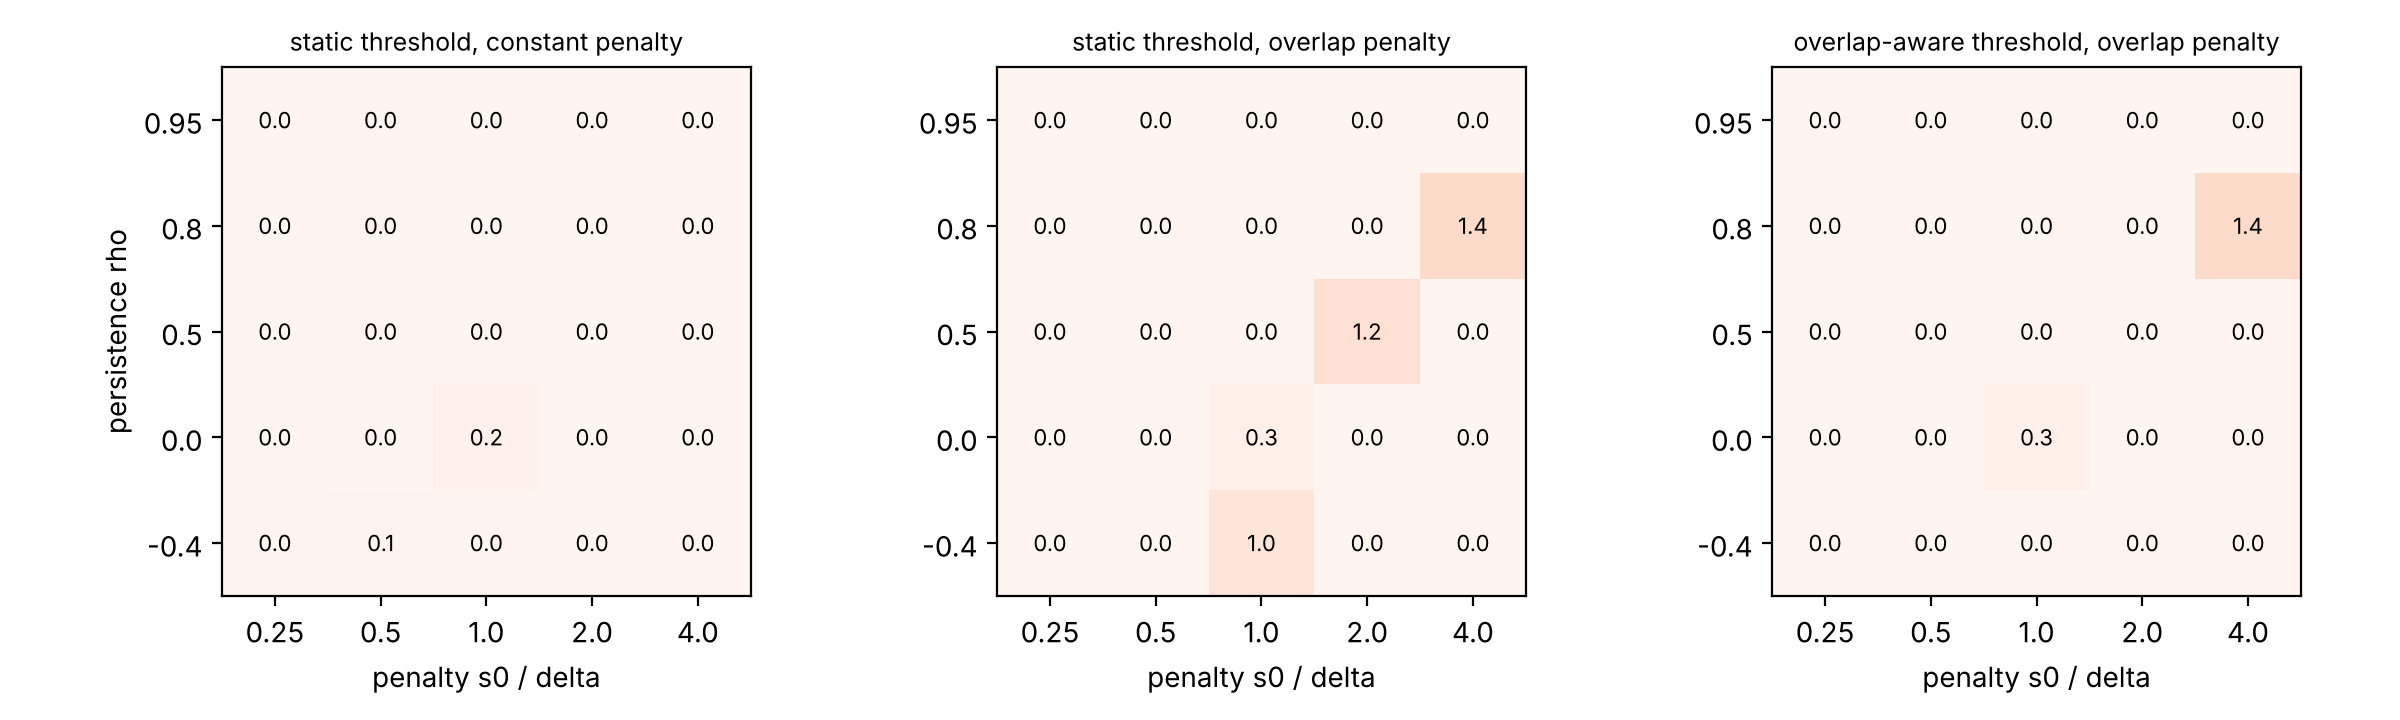
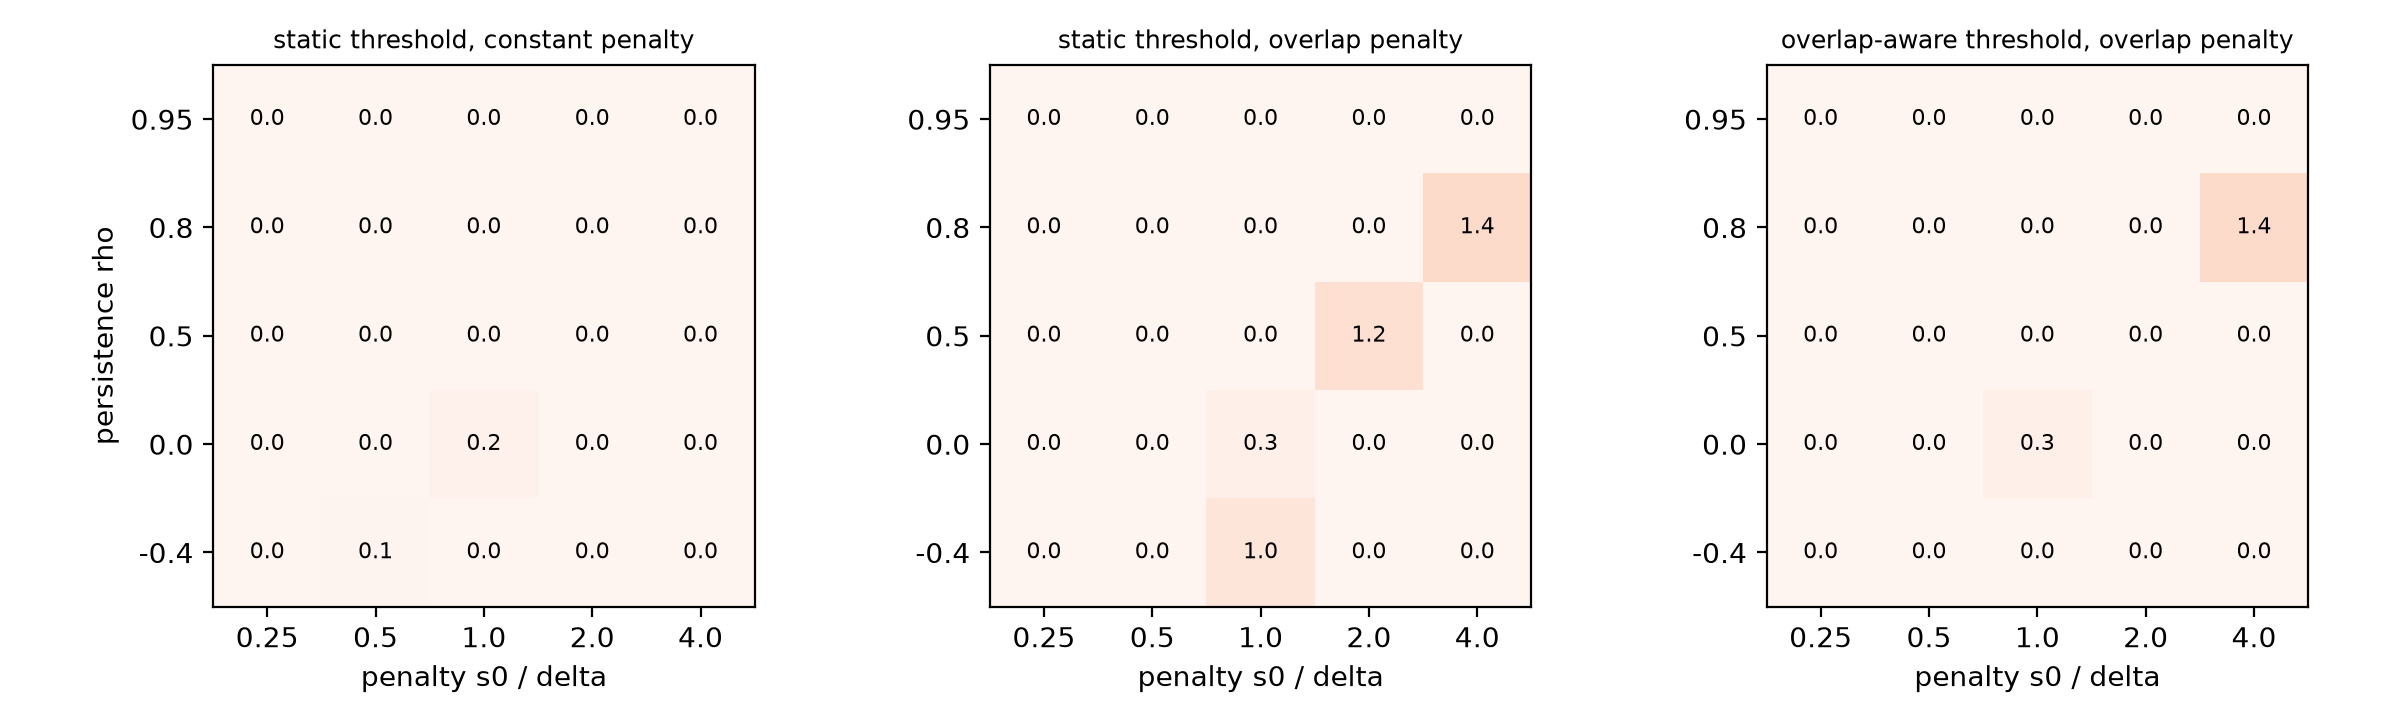
real dataset

diff --git a/rerouting/make_geant_topology.py b/rerouting/make_geant_topology.py
@@ -1,0 +1,29 @@
+"""builds data/geant/topology.csv (src,dst,capacity_kbps,weight) from topology-anonymised.xml.
+the anonymised file has no capacities and no igp weights, so every link gets weight 1 (hop count) and capacity 1.
+the binary link state (congested above the link's own training quantile of utilization) does not depend on a constant capacity."""
+import sys
+import xml.etree.ElementTree as et
+
+
+def local(tag):
+    return tag.split("}")[-1]
+
+
+def main(xml_path, out_path):
+    root = et.parse(xml_path).getroot()
+    edges = set()
+    for link in root.find(".//{*}topology").iter():
+        if local(link.tag) != "link":
+            continue
+        a = [e for e in link if local(e.tag) == "from"][0].get("node")
+        b = [e for e in link if local(e.tag) == "to"][0].get("node")
+        edges.add(tuple(sorted((a, b), key=int)))
+    with open(out_path, "w") as f:
+        f.write("src,dst,capacity_kbps,weight\n")
+        for a, b in sorted(edges, key=lambda e: (int(e[0]), int(e[1]))):
+            f.write("%s,%s,1,1\n" % (a, b))
+    print(len(edges), "undirected links written to", out_path)
+
+
+if __name__ == "__main__":
+    main(sys.argv[1], sys.argv[2])

diff --git a/rerouting/model.py b/rerouting/model.py
@@ -96,6 +96,8 @@ def evaluate(pol, cc, px, s, gamma):
     cpi = (s[ii, jj] + cc[jj, xx]).ravel()
     return np.linalg.solve(np.eye(n) - gamma * pp, cpi).reshape(k, nx)
 
+def _jstar(cc, s):
+    return np.argmin(cc[None] + 1e-9 * s[:, :, None], axis=1)   # (k, nx)
 
 def policy_iteration(cc, px, s, gamma):
     k, nx = cc.shape
@@ -119,18 +121,19 @@ def pol_never(k, nx):
     return np.tile(np.arange(k)[:, None], (1, nx))
 
 
-def pol_greedy(cc):
+def pol_greedy(cc, s):
     k, nx = cc.shape
-    return np.tile(cc.argmin(axis=0), (k, 1))
+    return _jstar(cc, s)
 
 
 def pol_threshold(cc, s, theta, alpha=0.0):
-    """switch to the cheapest path jstar if the gain exceeds theta + alpha * s(i, jstar)."""
     k, nx = cc.shape
-    jstar = cc.argmin(axis=0)
+    ii = np.arange(k)[:, None]
+    jstar = _jstar(cc, s)
     gain = cc - cc.min(axis=0)
-    sw = gain > theta + alpha * s[:, jstar]
-    return np.where(sw, jstar[None, :], np.arange(k)[:, None])
+    switching_penalty = s[ii, jstar]
+    sw = gain > theta + alpha * switching_penalty
+    return np.where(sw, jstar, ii)
 
 
 def cost_of(vv, mu):

diff --git a/rerouting/experiments.py b/rerouting/experiments.py
@@ -31,7 +31,7 @@ def scenario(inst, s0, rho, model, with_oa):
     jopt = md.cost_of(vv, mu)
     res = {"opt": jopt}
     res["ns"] = md.cost_of(md.evaluate(md.pol_never(inst["k"], inst["nx"]), cc, px, s, gamma), mu)
-    res["gr"] = md.cost_of(md.evaluate(md.pol_greedy(cc), cc, px, s, gamma), mu)
+    res["gr"] = md.cost_of(md.evaluate(md.pol_greedy(cc, s), cc, px, s, gamma), mu)
     jt, th, _ = md.best_threshold(cc, px, s, gamma, mu, thetas)
     res["th"], res["theta"] = jt, th
     if with_oa:
@@ -108,7 +108,7 @@ _, _, rho, s0, _ = worst
 res, (px, s, mu, popt, p, q) = scenario(inst_b, s0, rho, "overlap", True)
 cc = inst_b["cc"]
 i0 = int(np.argmax(mu.sum(axis=1)))
-pols = {"opt": popt, "never-switch": md.pol_never(3, inst_b["nx"]), "greedy": md.pol_greedy(cc),
+pols = {"opt": popt, "never-switch": md.pol_never(3, inst_b["nx"]), "greedy": md.pol_greedy(cc,s),
         "threshold": md.pol_threshold(cc, s, res["theta"]),
         "overlap-aware": md.pol_threshold(cc, s, res["theta0"], res["alpha"])}
 with open(os.path.join(out, "showcase.csv"), "w") as f:

diff --git a/rerouting/real_data.py b/rerouting/real_data.py
@@ -155,7 +155,7 @@ def main(tm, topology, src=None, dst=None, k=3, max_links=10, s0=2.0, quantile=0
     thetas, th0s, alphas = np.arange(0, 3.01, 0.25), np.arange(0, 2.01, 0.5), [0.0, 0.5, 1.0, 1.5, 2.0]
     th = md.best_threshold(cc, px, s, gamma, mu, thetas)[1]
     th0, al = md.best_threshold(cc, px, s, gamma, mu, th0s, alphas)[1:]
-    pols = {"optimal": popt, "never-switch": md.pol_never(inst["k"], inst["nx"]), "greedy": md.pol_greedy(cc),
+    pols = {"optimal": popt, "never-switch": md.pol_never(inst["k"], inst["nx"]), "greedy": md.pol_greedy(cc,s),
             "threshold": md.pol_threshold(cc, s, th), "overlap-aware": md.pol_threshold(cc, s, th0, al)}
     weights = 2 ** np.arange(m)
 

diff --git a/rerouting/stress.py b/rerouting/stress.py
@@ -54,7 +54,7 @@ vv, popt = md.value_iteration(cc, px, s, gamma)
 jo = md.cost_of(vv, mu)
 jt, th, _ = md.best_threshold(cc, px, s, gamma, mu, thetas)
 jv, th0, al = md.best_threshold(cc, px, s, gamma, mu, th0s, alphas)
-pols = {"optimal": popt, "never-switch": md.pol_never(3, inst["nx"]), "greedy": md.pol_greedy(cc),
+pols = {"optimal": popt, "never-switch": md.pol_never(3, inst["nx"]), "greedy": md.pol_greedy(cc,s),
         "threshold": md.pol_threshold(cc, s, th), "overlap-aware": md.pol_threshold(cc, s, th0, al)}
 i0 = int(np.argmax(mu.sum(axis=1)))
 with open(os.path.join(res, "stress_showcase.csv"), "w") as f:

diff --git a/rerouting/replay.py b/rerouting/replay.py
@@ -33,7 +33,7 @@ cc = inst["cc"]
 vv, popt = md.value_iteration(cc, px, s, gamma)
 jt, th, _ = md.best_threshold(cc, px, s, gamma, mu, thetas)
 jo, th0, al = md.best_threshold(cc, px, s, gamma, mu, th0s, alphas)
-pols = {"optimal": popt, "never-switch": md.pol_never(3, inst["nx"]), "greedy": md.pol_greedy(cc),
+pols = {"optimal": popt, "never-switch": md.pol_never(3, inst["nx"]), "greedy": md.pol_greedy(cc,s),
         "threshold": md.pol_threshold(cc, s, th), "overlap-aware": md.pol_threshold(cc, s, th0, al)}
 print("tuned on training data: theta=%.2f theta0=%.2f alpha=%.2f" % (th, th0, al))
 

diff --git a/rerouting/test_validation.py b/rerouting/test_validation.py
@@ -17,7 +17,7 @@ def setup(inst, s0, rho, mod="const"):
 def test_zero_penalty_optimal_is_greedy():
     px, s, mu, _, _ = setup(inst2, 0.0, 0.5)
     vv, _ = md.value_iteration(inst2["cc"], px, s, gamma)
-    jg = md.cost_of(md.evaluate(md.pol_greedy(inst2["cc"]), inst2["cc"], px, s, gamma), mu)
+    jg = md.cost_of(md.evaluate(md.pol_greedy(inst2["cc"],s), inst2["cc"], px, s, gamma), mu)
     assert abs(md.cost_of(vv, mu) - jg) < 1e-6
 
 
